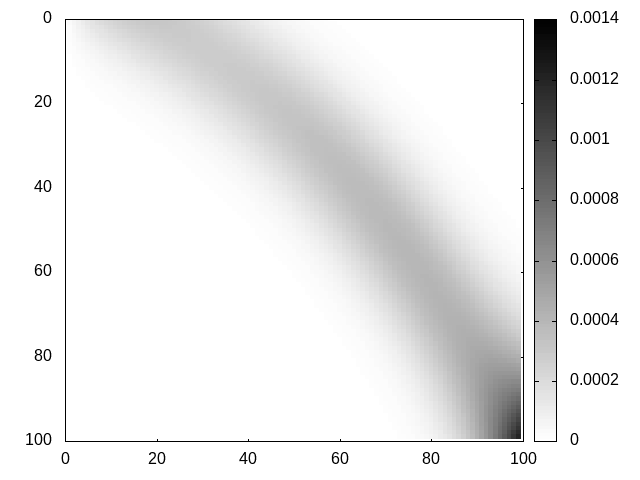
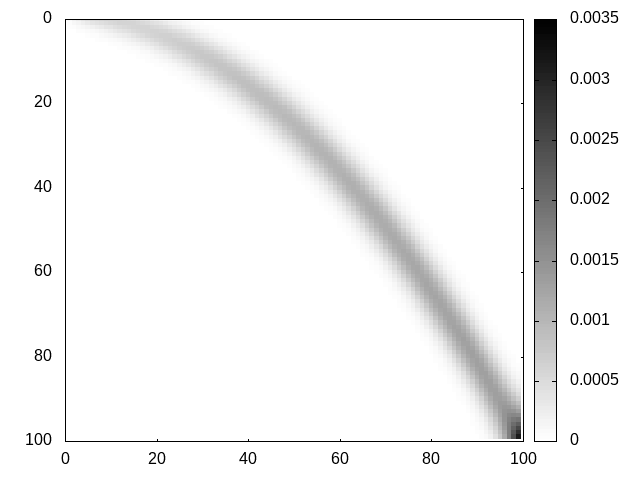
calcul des barycentres

diff --git a/code/pi.cpp b/code/pi.cpp
@@ -136,7 +136,7 @@ pi W(const simplex &s1, const simplex &s2, double eps, int n_iter){
 	return gamma;
 }
 
-simplex bar(const simplex & s1, const simplex & s2, double lambda1, double lambda2, double eps, int n_iter){
+simplex bar(const simplex & s1, const simplex & s2, double lambda, double eps, int n_iter){
 	int m = s1.length();
 	// Initialising
 	Matrice ksi(m);
@@ -152,14 +152,45 @@ simplex bar(const simplex & s1, const simplex & s2, double lambda1, double lambd
 	Matrice p2(m, 1);
 	Matrice v1(m, 1);
 	Matrice v2(m, 1);
-	for(int i=0; i<m; i++){
+	Matrice u1(m, 1);
+	Matrice u2(m, 1);
+	for(int i=0; i<m; i++){ // ukn and vkn
 		p1(i, 0) = s1(i);
 		p2(i, 0) = s2(i);
 		v1(i, 0) = 1;
 		v2(i, 0) = 1;
+		u1(i, 0) = 1;
+		u2(i, 0) = 1;
 	}
 	for(int i=0; i<n_iter; i++){
-		
+		// Computing vk(n+1)
+		v1 = div(p1, transpose(ksi)*u1);
+		v2 = div(p1, transpose(ksi)*u2);
+		// Computing p(n+1)
+		Matrice p = product(matrix_pow(product(u1, ksi*v1), lambda), matrix_pow(product(u2, ksi*v2), 1-lambda));
+		// Computing uk(n+1)
+		u1 = div(p, ksi*v1);
+		u2 = div(p, ksi*v2);
 	}
-
+	// Computing the first projection matrix
+	Matrice diag1(m);
+	Matrice diag2(m);
+	for(int i=0; i<m; i++){
+		for(int j=0; j<m; j++){
+			if(i==j){
+				diag1(i,j) = u1(i,0);
+				diag2(i,j) = v1(i,0);
+			}
+			else{
+				diag1(i,j) = 0;
+				diag2(i,j) = 0;
+			}
+		}
+	}
+	Matrice final_prod(diag1*ksi*diag2);
+	pi gamma(m);
+	for(int i=0; i<m; i++)
+		for(int j=0; j<m; j++)
+			gamma(i,j) = final_prod(i,j);
+	return gamma.first_marginal();
 }

diff --git a/code/matrice.cpp b/code/matrice.cpp
@@ -94,7 +94,7 @@ ostream& operator<<( ostream& str, const Matrice& A) {
     return str;
 }
 
-Matrice transpose(Matrice A){
+Matrice transpose(const Matrice& A){
 	Matrice B(A.ncolonnes(), A.nlignes());
 	for(int i=0; i<A.nlignes(); i++){
 		for(int j=0; j<A.ncolonnes(); j++)
@@ -103,7 +103,25 @@ Matrice transpose(Matrice A){
 	return B;
 }
 
+Matrice matrix_pow(const Matrice& A, double lambda){
+	Matrice C(A.nlignes(), A.ncolonnes());
+	for(int i=0; i<A.nlignes(); i++){
+		for(int j=0; j<A.ncolonnes(); j++){
+			C(i,j) = pow(A(i,j), lambda);
+		}
+	}
+	return C;
+}
 
+Matrice product(const Matrice& A, const Matrice& B){
+	Matrice C(A.nlignes(), A.ncolonnes());
+		for(int i=0; i<A.nlignes(); i++){
+			for(int j=0; j<A.ncolonnes(); j++){
+				C(i,j) = A(i,j)*B(i,j);
+			}
+		}
+	return C;
+}
 Matrice operator/(const Matrice& A, const Matrice& B){
 	Matrice C(A.nlignes(), A.ncolonnes());
 	for(int i=0; i<A.nlignes(); i++){

diff --git a/code/matrice.h b/code/matrice.h
@@ -1,6 +1,7 @@
 #pragma once
 #include <cassert>
 #include <iostream>
+#include <cmath>
 
 using namespace std;
 
@@ -37,4 +38,6 @@ class Matrice {
 Matrice operator*(const Matrice& A, const Matrice& B);
 Matrice operator/(const Matrice& A, const Matrice& B);
 ostream& operator<<( ostream& str, const Matrice& A);
-Matrice transpose(Matrice A);
+Matrice transpose(const Matrice& A);
+Matrice matrix_pow(const Matrice& A, double lambda);
+Matrice product(const Matrice& A, const Matrice& B);

diff --git a/code/main.cpp b/code/main.cpp
@@ -25,11 +25,14 @@ int main(int argc, char *argv[])
 	int n_iter = strtol(argv[2], nullptr, 0);;
 	cout << "n_iter=" << n_iter << endl;
 	//double eps = (double) strtol(argv[2], nullptr, 0);;
-	double eps = 3/((double)N);
+	double eps = 1/((double)3*N);
 	cout << "eps=" << eps << endl;
       	pi gamma = W(s1, s2, eps, n_iter);
 	s1.plot();
 	s2.plot();
 	gamma.plot();
+	double lambda = 0.5;
+	simplex barycenter = bar(s1, s2, lambda, eps, n_iter);
+	barycenter.plot();
 	return 0;
 }

diff --git a/code/pi.h b/code/pi.h
@@ -26,3 +26,4 @@ class pi{
 };
 
 pi W(const simplex &s1, const simplex &s2, double eps, int n_iter);
+simplex bar(const simplex & s1, const simplex & s2, double lambda, double eps, int n_iter);
